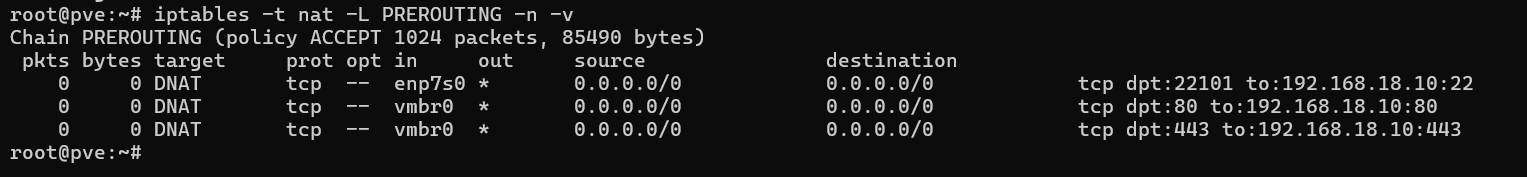
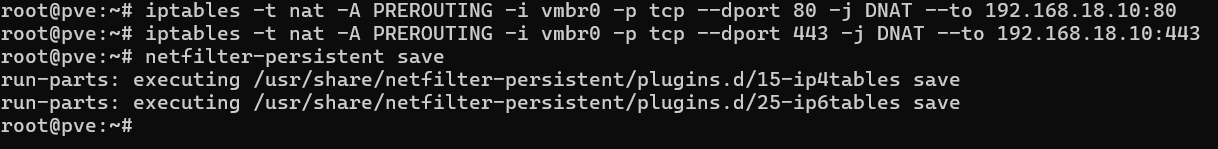
Se cambia una configuración en las interfaces de los servidores para la mejor al acceso de connectix.es

diff --git a/Proxmox/Servidores/WEB/README.md b/Proxmox/Servidores/WEB/README.md
@@ -151,7 +151,7 @@ Se modificó el archivo `C:\Windows\System32\drivers\etc\hosts` para apuntar el 
 Esto "engaña" al navegador para que sepa que `www.connectix.es` corresponde a nuestro servidor.
 
 ```powershell
-172.16.204.138 www.connectix.es connectix.es
+172.16.204.233 www.connectix.es connectix.es
 ```
 ![](../../../imágenes/WEB/web_14.png)
 
@@ -163,6 +163,7 @@ Permite que las peticiones externas lleguen a la VM interna de forma transparent
 # Redirección de puertos 80 y 443 a la IP de la VM
 iptables -t nat -A PREROUTING -i vmbr0 -p tcp --dport 80 -j DNAT --to 192.168.18.10:80
 iptables -t nat -A PREROUTING -i vmbr0 -p tcp --dport 443 -j DNAT --to 192.168.18.10:443
+netfilter-persistent save
 ```
 ![](../../../imágenes/WEB/web_15.png)
 

diff --git a/Proxmox/Configuración/README.md b/Proxmox/Configuración/README.md
@@ -128,7 +128,7 @@ Se crearon al menos dos máquinas virtuales (DNS/DHCP y WordPress) siguiendo est
 | Máquina | IP Asignada | Gateway | DNS |
 | :--- | :--- | :--- | :--- |
 | **DNS/DHCP Server** | `192.168.18.1/24` | `192.168.18.254` | `1.1.1.1.1`, `8.8.8.8` |
-| **WordPress Server** | `DHCP` | `DHCP` | `DHCP` |
+| **WordPress Server** | `DHCP` | `DHCP` | `192.168.18.1, 8.8.8.8` |
 
 ![](../../imágenes/px_conf/px_conf_15.png)
 ![](../../imágenes/px_conf/px_conf_16.png)
